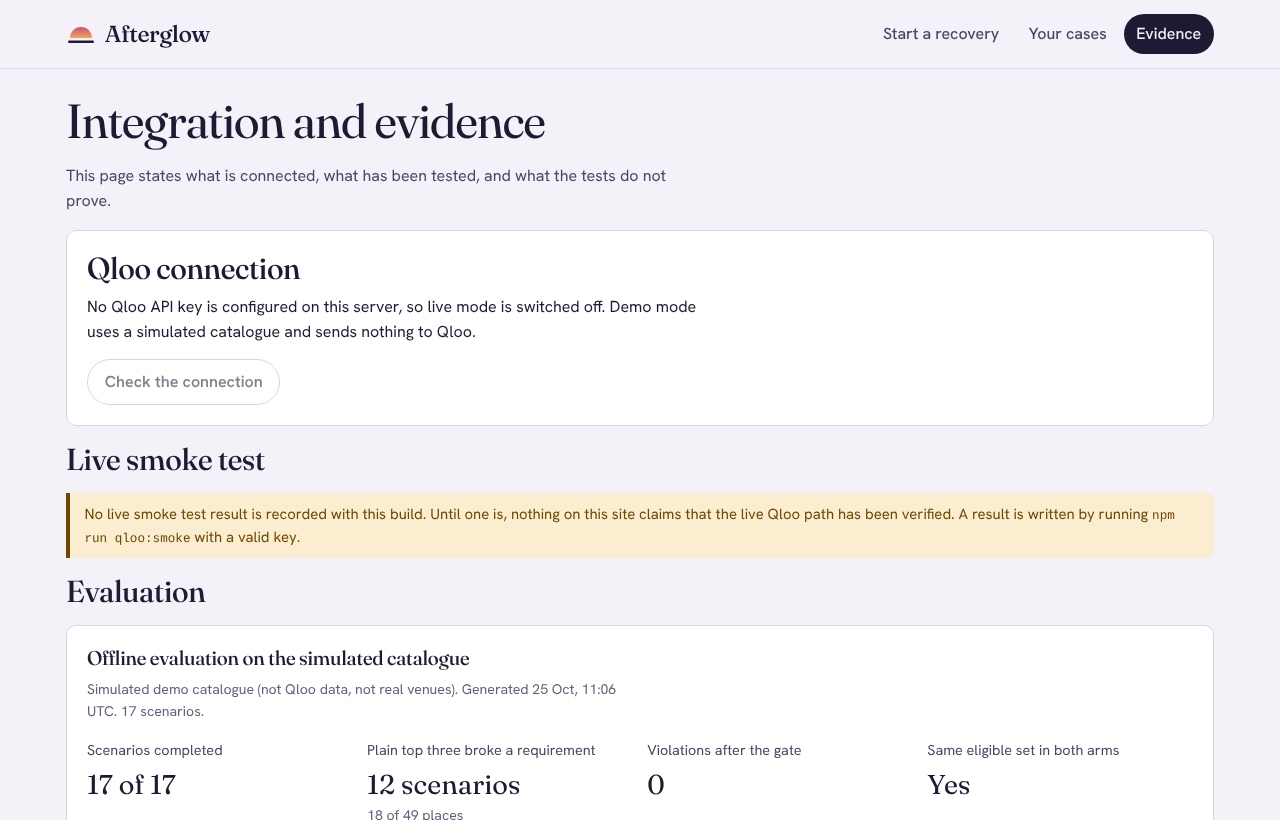
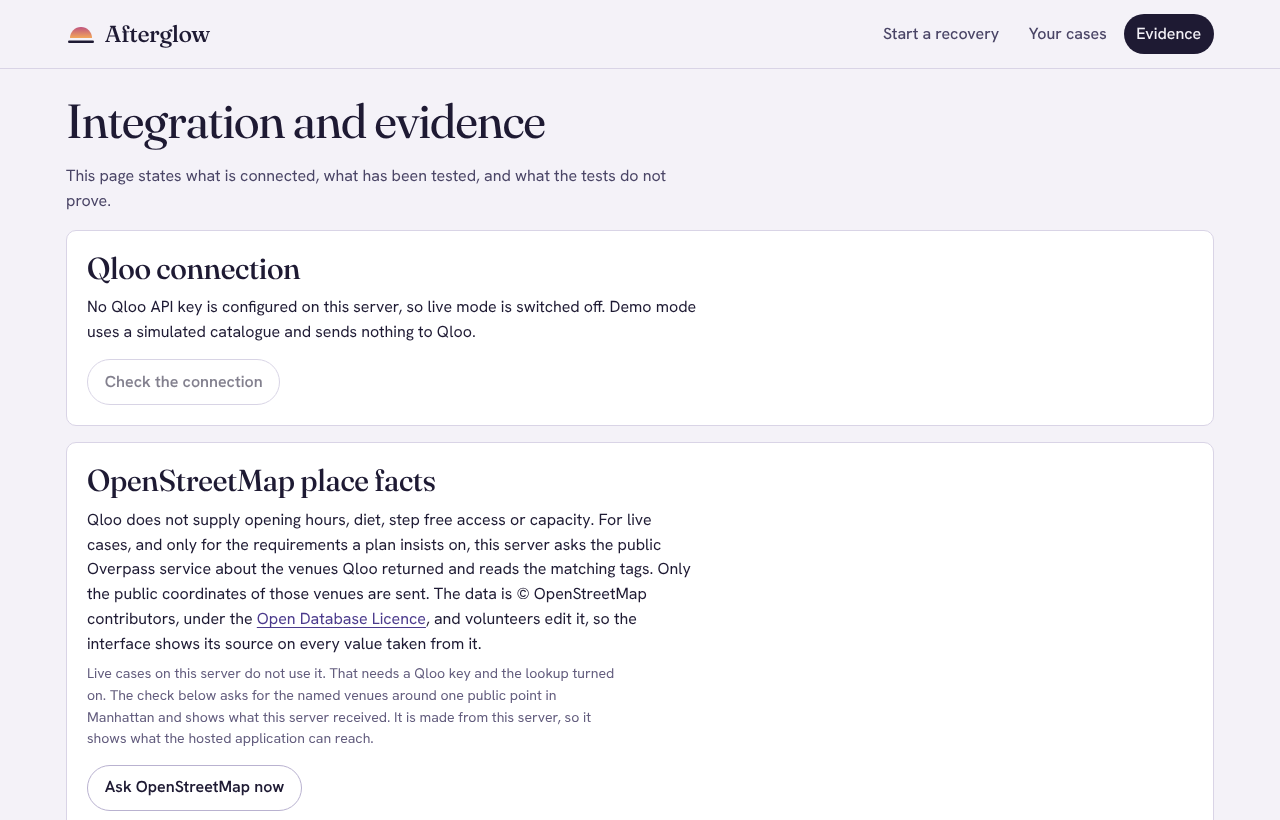
Record that the public Overpass servers did not answer, and refresh the evidence screenshot

diff --git a/README.md b/README.md
@@ -10,17 +10,17 @@ Built by Team Kanban (Huda Mueen Qureshi, Awaiz Ahmed) for the Qloo Agentic Hack
 
 This table states what has and has not been verified. It is updated whenever the facts change.
 
-| Item                                            | Status                                                                                                                                                                               |
-| ----------------------------------------------- | ------------------------------------------------------------------------------------------------------------------------------------------------------------------------------------ |
-| Unit and integration tests                      | Passing (`npm test`)                                                                                                                                                                 |
-| Browser tests with accessibility checks         | Passing (`npm run test:e2e`)                                                                                                                                                         |
-| Type check, lint, formatting                    | Passing (`npm run check`)                                                                                                                                                            |
-| Continuous integration                          | Passing on GitHub Actions for commit 67c916b: checks, build and browser tests (`.github/workflows/ci.yml`)                                                                           |
-| Offline evaluation on the simulated catalogue   | Run, results in [docs/EVALUATION_RESULTS.md](docs/EVALUATION_RESULTS.md)                                                                                                             |
-| Live Qloo smoke test (`npm run qloo:smoke`)     | **Not yet run.** It needs a personal Qloo key, which the team runs locally and never commits                                                                                         |
-| Live Qloo evaluation                            | **Not yet run.** It depends on the smoke test                                                                                                                                        |
-| OpenStreetMap place facts (`npm run osm:smoke`) | Implemented and tested with invented responses. **Not yet run against real OpenStreetMap data.** It needs no key and can be started from GitHub Actions                              |
-| Hosted demo                                     | Deployed on Render in demo mode at https://afterglow-gsc4.onrender.com. Render reported the deploy live and the server log shows it listening. **Live Qloo is not configured on it** |
+| Item                                            | Status                                                                                                                                                                                                                                                               |
+| ----------------------------------------------- | -------------------------------------------------------------------------------------------------------------------------------------------------------------------------------------------------------------------------------------------------------------------- |
+| Unit and integration tests                      | Passing (`npm test`)                                                                                                                                                                                                                                                 |
+| Browser tests with accessibility checks         | Passing (`npm run test:e2e`)                                                                                                                                                                                                                                         |
+| Type check, lint, formatting                    | Passing (`npm run check`)                                                                                                                                                                                                                                            |
+| Continuous integration                          | Passing on GitHub Actions for commit 67c916b: checks, build and browser tests (`.github/workflows/ci.yml`)                                                                                                                                                           |
+| Offline evaluation on the simulated catalogue   | Run, results in [docs/EVALUATION_RESULTS.md](docs/EVALUATION_RESULTS.md)                                                                                                                                                                                             |
+| Live Qloo smoke test (`npm run qloo:smoke`)     | **Not yet run.** It needs a personal Qloo key, which the team runs locally and never commits                                                                                                                                                                         |
+| Live Qloo evaluation                            | **Not yet run.** It depends on the smoke test                                                                                                                                                                                                                        |
+| OpenStreetMap place facts (`npm run osm:smoke`) | Implemented and tested with invented responses. **Not yet run successfully against real OpenStreetMap data.** The public Overpass servers did not answer from GitHub Actions on 25 October 2026. It needs no key. See [docs/OPENSTREETMAP.md](docs/OPENSTREETMAP.md) |
+| Hosted demo                                     | Deployed on Render in demo mode at https://afterglow-gsc4.onrender.com. Render reported the deploy live and the server log shows it listening. **Live Qloo is not configured on it**                                                                                 |
 
 Until the live rows change, nothing in this repository claims that AFTERGLOW has been verified against the real Qloo API. Demo mode uses an invented catalogue and says so on every screen.
 

diff --git a/docs/OPENSTREETMAP.md b/docs/OPENSTREETMAP.md
@@ -4,11 +4,16 @@ This document describes how AFTERGLOW reads practical facts about venues from Op
 
 ## Status
 
-The reader, matcher, client and integration are implemented and tested against invented responses. They have **not yet been run against real OpenStreetMap data** from this project. The check that does so is `npm run osm:smoke`, or the **OpenStreetMap smoke test** workflow in GitHub Actions. It needs no key. Until its result is recorded here, treat every statement about how much real data AFTERGLOW can read as unverified.
+The reader, matcher, client and integration are implemented and tested against invented responses. They have **not yet been run successfully against real OpenStreetMap data** from this project.
+
+What happened when the real check was tried: on 25 October 2026 the **OpenStreetMap smoke test** workflow was run five times from GitHub Actions. Every public Overpass endpoint it tried either timed out or answered with a 502 within a second, including a query for a single node, and two mirrors did not answer at all. Direct requests with a plain command line client got a 406 from the main server. That points to an overloaded or restrictive public service, or to one that limits requests from GitHub's address range, and it says nothing about whether the query itself is right. No real response has been parsed yet.
+
+The product is built to cope with this. When the lookup fails, the affected facts stay unknown and the person is asked, the case says what happened, and after two failed lookups in a row the lookup pauses for five minutes so that a service that is down never slows a search. The **Evidence** page has an **Ask OpenStreetMap now** button that runs a small real query from the server itself, so what it shows is what the hosted application can actually reach. The check can also be run with `npm run osm:smoke` from any machine, or from the workflow, and needs no key. Until a real answer is recorded here, treat every statement about how much real data AFTERGLOW can read as unverified.
 
 | Check                                              | Result      |
 | -------------------------------------------------- | ----------- |
 | Overpass query accepted and parsed on real data    | Not yet run |
+| Time taken for a search sized query                | Not yet run |
 | Share of real opening hours values read in full    | Not yet run |
 | Share of venues that carry wheelchair or diet tags | Not yet run |
 
@@ -39,7 +44,7 @@ For each place Qloo returned, with a known location and at least one needed fact
 - A fact that Qloo or the person has already supplied is never replaced.
 - The feasibility gate treats an OpenStreetMap value like any other known fact. A venue shut for the whole day of the plan fails. A venue whose hours do not cover the plan fails.
 - The person always has the last word. Checking a fact in the interface overrides the map for that place.
-- Any failure, whether a timeout, a rate limit, a bad answer or an unreadable tag, leaves the facts unknown. The search carries on and a note on the case says what happened.
+- Any failure, whether a timeout, a rate limit, a bad answer or an unreadable tag, leaves the facts unknown. The search carries on and a note on the case says what happened. After two failed lookups in a row, further lookups pause for five minutes and say so, so that a service that is down does not slow every search. Answers already kept are still used while paused.
 
 ## What is sent
 
@@ -57,7 +62,7 @@ OpenStreetMap data is available under the Open Database Licence and must be cred
 | --------------------- | --------------------------------------------------------------------------------------- | ----------------------------------------------------------------------------------------- |
 | `AFTERGLOW_OSM_FACTS` | `true`                                                                                  | Turns the lookup off when set to `false`. It also needs a Qloo key.                       |
 | `OVERPASS_URL`        | `https://overpass-api.de/api/interpreter,https://overpass.kumi.systems/api/interpreter` | One endpoint, or several separated by commas that are tried in order. Each must be https. |
-| `OVERPASS_TIMEOUT_MS` | `12000`                                                                                 | How long to wait for each endpoint.                                                       |
+| `OVERPASS_TIMEOUT_MS` | `6000`                                                                                  | How long to wait for each endpoint.                                                       |
 
 The public Overpass services are shared and have fair use limits. The first real data run from this project met a timeout and then a 502 from the main public server, so the client moves to the next endpoint when one is overloaded, times out or limits the rate, and records which host answered. It does not move on when a query is refused, because another server would refuse it too. A busy public demo should run its own instance or turn the lookup off. The lookup runs at the same time as the Qloo ranking, so it adds waiting time only when it is the slower of the two.
 

diff --git a/docs/LIMITATIONS.md b/docs/LIMITATIONS.md
@@ -9,7 +9,7 @@
 
 ## Product limits
 
-- **Unknown facts in live mode.** Qloo responses are not read for opening hours, dietary options, accessibility, capacity or covered seating. For live cases AFTERGLOW looks some of them up on OpenStreetMap, matching each place by name and position, but only where volunteers have tagged a matching place, and that lookup has not yet been run against real data. Everything else stays unknown until the person attests it. A plan with many such requirements can still show many places as needing a check, and may show none as ready. Covered seating and prices are never read from OpenStreetMap.
+- **Unknown facts in live mode.** Qloo responses are not read for opening hours, dietary options, accessibility, capacity or covered seating. For live cases AFTERGLOW looks some of them up on OpenStreetMap, matching each place by name and position, but only where volunteers have tagged a matching place, and that lookup has not yet been run successfully against real data, because the public Overpass servers did not answer when it was tried. Everything else stays unknown until the person attests it. A plan with many such requirements can still show many places as needing a check, and may show none as ready. Covered seating and prices are never read from OpenStreetMap.
 - **No booking.** AFTERGLOW does not book, call, message or pay. Starting an attempt means the person contacts the venue themselves. Confirmed records the person's statement and is not verified with the venue.
 - **One city per case, city level location.** Distance is measured from the original venue when its location can be found. When it cannot, distance based requirements are unknown, and the original venue is not excluded unless it can be matched by name.
 - **Shortlist size.** The shortlist shows three places. The pool is limited by what the provider returns for a city and category.

diff --git a/docs/SUBMISSION.md b/docs/SUBMISSION.md
@@ -80,7 +80,7 @@ To use live Qloo, copy `.env.example` to `.env`, set `QLOO_API_KEY`, run `npm ru
 ## 6. Known limitations and what the results do not establish
 
 - The live Qloo path has not yet been verified with a real key.
-- In live mode Qloo is not read for opening hours, dietary options, accessibility, capacity or covered seating. For live cases AFTERGLOW looks some of them up on OpenStreetMap, which volunteers edit, and that lookup has not yet been run against real data. Whatever remains stays unknown until the person checks it, and the gate treats unknown as not passing.
+- In live mode Qloo is not read for opening hours, dietary options, accessibility, capacity or covered seating. For live cases AFTERGLOW looks some of them up on OpenStreetMap, which volunteers edit, and that lookup has not yet been run successfully against real data, because the public Overpass servers did not answer when it was tried. Whatever remains stays unknown until the person checks it, and the gate treats unknown as not passing.
 - The offline evaluation uses an invented, hand authored catalogue. In it, a plain top three broke at least one requirement in 12 of 17 scenarios, and the gated shortlists broke none as judged by an independent oracle. These figures show how the pipeline behaves on that catalogue. They are not a rate in the real world and they say nothing about how well Qloo predicts what people enjoy.
 - No people took part in any evaluation.
 - AFTERGLOW does not book, call or message anyone. Confirmed means the person said so.
